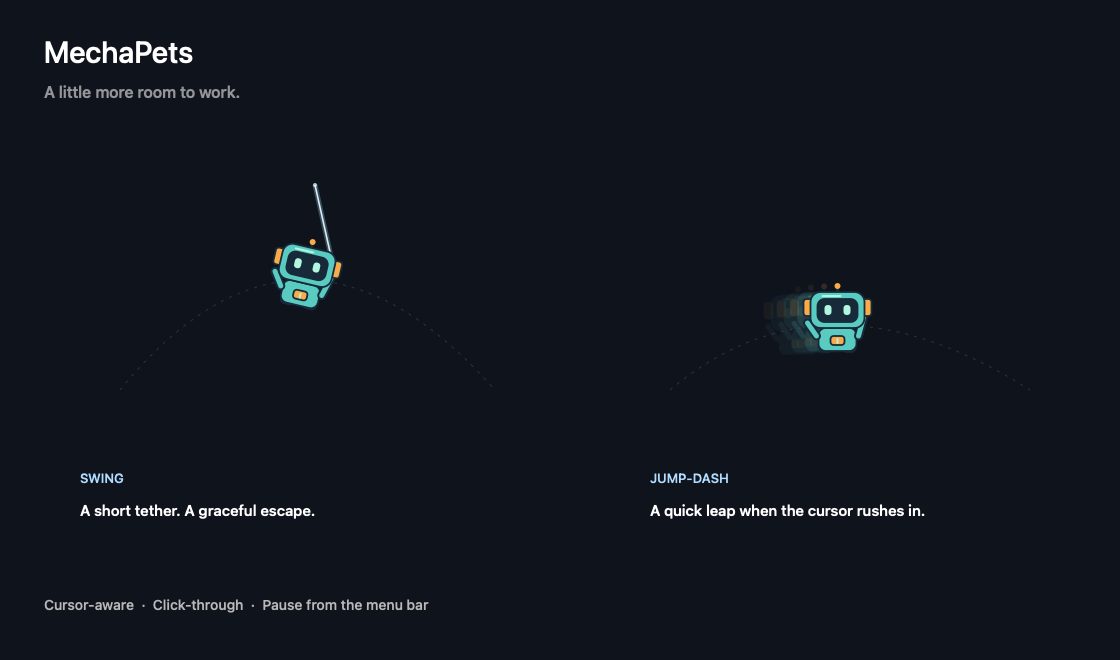
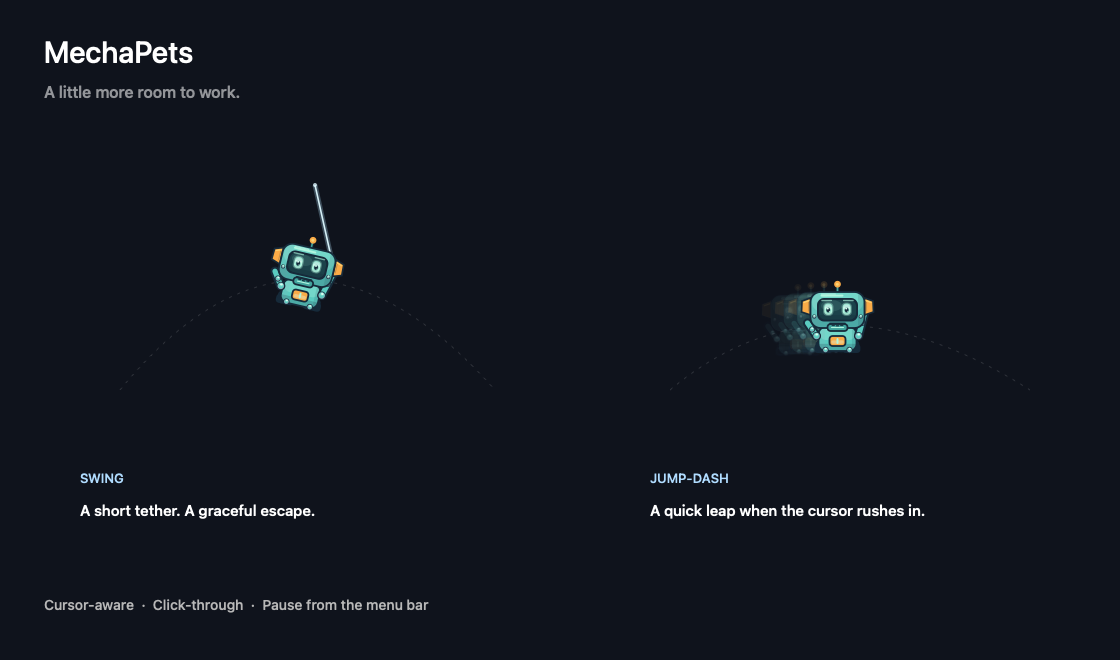
Refine robot artwork and forge spark trails

Changed region(s): [[0.6875, 0.4242, 0.7812, 0.5455], [0.25, 0.3636, 0.3125, 0.4848]]

diff --git a/Sources/Robot.swift b/Sources/Robot.swift
@@ -8,8 +8,12 @@ extension PetView {
         NSGraphicsContext.current?.cgContext.setAlpha(alpha)
         let ink=NSColor(calibratedRed:0.06,green:0.14,blue:0.20,alpha:1)
         let shell=NSColor(calibratedRed:0.29,green:0.78,blue:0.73,alpha:1)
+        let plate=NSColor(calibratedRed:0.20,green:0.62,blue:0.59,alpha:1)
         let highlight=NSColor(calibratedRed:0.66,green:0.96,blue:0.86,alpha:1)
+        let shine=NSColor(calibratedRed:0.84,green:0.99,blue:0.94,alpha:1)
         let orange=NSColor(calibratedRed:1,green:0.65,blue:0.25,alpha:1)
+        let amber=NSColor(calibratedRed:1,green:0.82,blue:0.42,alpha:1)
+        let steel=NSColor(calibratedRed:0.50,green:0.66,blue:0.70,alpha:1)
         let airborne=row==4 && (frame==1 || frame==2)
         let forging = model.flight == nil && (workloadCount ?? 0) > 0
         let forge = ForgeStyle(count: workloadCount ?? 0)
@@ -19,59 +23,210 @@ extension PetView {
             let p=NSBezierPath(roundedRect:NSRect(x:x,y:y+bob,width:w,height:h),xRadius:r,yRadius:r)
             color.setFill();p.fill();ink.setStroke();p.lineWidth=1.8;p.stroke()
         }
+        func plated(_ x:CGFloat,_ y:CGFloat,_ w:CGFloat,_ h:CGFloat,_ r:CGFloat,_ color:NSColor) {
+            let rect=NSRect(x:x,y:y+bob,width:w,height:h)
+            let p=NSBezierPath(roundedRect:rect,xRadius:r,yRadius:r)
+            color.setFill();p.fill()
+            NSGraphicsContext.saveGraphicsState()
+            p.addClip()
+            highlight.withAlphaComponent(0.28).setFill()
+            NSBezierPath(roundedRect:NSRect(x:x+1.6,y:y+bob+h*0.46,width:w-3.2,height:h*0.52),xRadius:max(1,r-1.2),yRadius:max(1,r-1.2)).fill()
+            steel.withAlphaComponent(0.16).setFill()
+            NSBezierPath(rect:NSRect(x:x,y:y+bob,width:max(2.4,w*0.17),height:h)).fill()
+            ink.withAlphaComponent(0.20).setFill()
+            NSBezierPath(rect:NSRect(x:x,y:y+bob,width:w,height:h*0.30)).fill()
+            ink.withAlphaComponent(0.12).setFill()
+            NSBezierPath(rect:NSRect(x:x+w-max(2.0,w*0.12),y:y+bob,width:max(2.0,w*0.12),height:h)).fill()
+            shine.withAlphaComponent(0.58).setStroke()
+            let rim=NSBezierPath();rim.move(to:NSPoint(x:x+r+1,y:y+bob+h-2.1));rim.line(to:NSPoint(x:x+w*0.46,y:y+bob+h-2.1))
+            rim.lineWidth=1.2;rim.lineCapStyle = .round;rim.stroke()
+            shine.withAlphaComponent(0.30).setStroke()
+            let spec=NSBezierPath();spec.move(to:NSPoint(x:x+r+2.2,y:y+bob+h-4.0));spec.line(to:NSPoint(x:x+w*0.30,y:y+bob+h-4.0))
+            spec.lineWidth=0.8;spec.lineCapStyle = .round;spec.stroke()
+            NSGraphicsContext.restoreGraphicsState()
+            ink.setStroke();p.lineWidth=1.8;p.stroke()
+        }
         func line(_ from:NSPoint,_ to:NSPoint,_ color:NSColor,_ width:CGFloat) {
             let p=NSBezierPath();p.move(to:from);p.line(to:to);p.lineCapStyle = .round;p.lineWidth=width;color.setStroke();p.stroke()
         }
-        // Short, articulated feet: they tuck up during jumps.
+        func joint(_ x:CGFloat,_ y:CGFloat,_ r:CGFloat, bobbing:Bool=false) {
+            let dy=bobbing ? bob : 0
+            ink.setFill();NSBezierPath(ovalIn:NSRect(x:x-r,y:y-r+dy,width:r*2,height:r*2)).fill()
+            steel.setFill();NSBezierPath(ovalIn:NSRect(x:x-r+0.8,y:y-r+0.85+dy,width:r*2-1.6,height:r*2-1.6)).fill()
+            shell.setFill();NSBezierPath(ovalIn:NSRect(x:x-r+1.45,y:y-r+1.65+dy,width:r*2-2.9,height:r*2-2.7)).fill()
+            highlight.withAlphaComponent(0.32).setFill()
+            NSBezierPath(ovalIn:NSRect(x:x-r*0.52,y:y-r*0.12+dy,width:r*1.02,height:r*0.68)).fill()
+            shine.setFill();NSBezierPath(ovalIn:NSRect(x:x-r*0.28,y:y+r*0.12+dy,width:r*0.7,height:r*0.55)).fill()
+        }
+        func fin(baseX:CGFloat, pointing:CGFloat) {
+            let p=NSBezierPath()
+            p.move(to:NSPoint(x:baseX,y:10+bob))
+            p.line(to:NSPoint(x:baseX+pointing*9,y:13+bob))
+            p.line(to:NSPoint(x:baseX+pointing*8.5,y:24+bob))
+            p.line(to:NSPoint(x:baseX,y:27+bob))
+            p.close()
+            orange.setFill();p.fill();ink.setStroke();p.lineWidth=1.7;p.stroke()
+            ink.withAlphaComponent(0.22).setStroke()
+            let seam=NSBezierPath();seam.move(to:NSPoint(x:baseX+pointing*2.1,y:13.5+bob));seam.line(to:NSPoint(x:baseX+pointing*2.0,y:23.2+bob))
+            seam.lineWidth=1.0;seam.lineCapStyle = .round;seam.stroke()
+            let rim=NSBezierPath();rim.move(to:NSPoint(x:baseX+pointing*1.2,y:24.5+bob));rim.line(to:NSPoint(x:baseX+pointing*6.5,y:22.5+bob))
+            rim.lineCapStyle = .round;rim.lineWidth=1.15;amber.setStroke();rim.stroke()
+        }
+        // Short, articulated boots: they tuck up during jumps.
         let footY:CGFloat=airborne ? -27:-36
-        box(-18,footY,13,10,4,ink);box(5,footY,13,10,4,ink)
-        box(-19,-26,38,23,7,shell)
-        box(-7,-20,14,9,3,orange)
-        line(NSPoint(x:0,y:-18),NSPoint(x:0,y:-14),highlight,2)
+        box(-21,footY,16,11,3.4,ink);box(-22,footY,7,7,2.2,ink)
+        box(5,footY,16,11,3.4,ink);box(15,footY,7,7,2.2,ink)
+        steel.withAlphaComponent(0.42).setFill()
+        NSBezierPath(roundedRect:NSRect(x:-19.6,y:footY+5.6+bob,width:11.2,height:3.2),xRadius:1.3,yRadius:1.3).fill()
+        NSBezierPath(roundedRect:NSRect(x:6.4,y:footY+5.6+bob,width:11.2,height:3.2),xRadius:1.3,yRadius:1.3).fill()
+        plated(-19,-26,38,24,7,shell)
+        joint(-12,-25,3.2,bobbing:true);joint(12,-25,3.2,bobbing:true)
+        box(-8,-21,16,10,3,orange)
+        shine.withAlphaComponent(0.34).setFill()
+        NSBezierPath(roundedRect:NSRect(x:-6.2,y:-18.8+bob,width:12.4,height:3.4),xRadius:1.4,yRadius:1.4).fill()
+        if forging {
+            let pulse=CGFloat(1 - lift) * (0.18 + 0.10 * CGFloat(forge.level))
+            amber.withAlphaComponent(0.28+pulse).setFill()
+            NSBezierPath(roundedRect:NSRect(x:-5,y:-18+bob,width:10,height:5),xRadius:2,yRadius:2).fill()
+        }
+        line(NSPoint(x:0,y:-18+bob),NSPoint(x:0,y:-14+bob),highlight,2)
+        func arm(_ from:NSPoint,_ to:NSPoint) {
+            line(from,to,ink,9.2);line(from,to,shell,5.2)
+            joint(from.x,from.y,4.1)
+            joint((from.x+to.x)*0.5,(from.y+to.y)*0.5,3.1)
+        }
         // Arms can reach toward the tether without changing the body silhouette.
+        var hammerHead=NSPoint.zero
+        var hammerHand=NSPoint.zero
+        var hammerTilt:CGFloat=0
         if airborne {
-            line(NSPoint(x:-21,y:-11),NSPoint(x:-30,y:2),ink,9)
-            line(NSPoint(x:-21,y:-11),NSPoint(x:-30,y:2),shell,5)
-            line(NSPoint(x:21,y:-11),NSPoint(x:28,y:15),ink,9)
-            line(NSPoint(x:21,y:-11),NSPoint(x:28,y:15),shell,5)
+            arm(NSPoint(x:-21,y:-11),NSPoint(x:-30,y:2))
+            arm(NSPoint(x:21,y:-11),NSPoint(x:28,y:15))
         } else if forging {
             // One hand steadies the robot while the other works a small steel hammer.
-            line(NSPoint(x:-21,y:-12),NSPoint(x:-24,y:-24),ink,9)
-            line(NSPoint(x:-21,y:-12),NSPoint(x:-24,y:-24),shell,5)
-            let hand = NSPoint(x:36-7*lift, y:-31+33*lift)
-            line(NSPoint(x:21,y:-12),hand,ink,9)
-            line(NSPoint(x:21,y:-12),hand,shell,5)
-            let head = NSPoint(x:hand.x+4,y:hand.y+13)
-            line(NSPoint(x:hand.x-2,y:hand.y-3),head,ink,5)
-            line(NSPoint(x:hand.x-2,y:hand.y-3),head,orange,2.5)
-            // Draw the hammer without body bob so impact meets the anvil precisely.
-            let hammer = NSBezierPath(roundedRect:NSRect(x:head.x-8,y:head.y-4,width:16,height:8),xRadius:2,yRadius:2)
-            NSColor(calibratedRed:0.52,green:0.66,blue:0.70,alpha:1).setFill();hammer.fill()
-            ink.setStroke();hammer.lineWidth=1.7;hammer.stroke()
-            line(NSPoint(x:head.x-5,y:head.y+2),NSPoint(x:head.x+4,y:head.y+2),highlight,1.4)
+            arm(NSPoint(x:-21,y:-12),NSPoint(x:-24,y:-24))
+            joint(-24,-24,3.4)
+            let t=CGFloat(lift)
+            // Hammer head sits on the anvil face at rest; raise tilts it back. Drawn without bob.
+            hammerHead=NSPoint(x:41-9*t,y:-20.2+37*t)
+            hammerHand=NSPoint(x:29.5-2*t,y:-23.5+29*t)
+            hammerTilt = -0.72 * t
+            arm(NSPoint(x:21,y:-12),hammerHand)
         } else {
-            line(NSPoint(x:-21,y:-12),NSPoint(x:-26,y:-24),ink,9)
-            line(NSPoint(x:-21,y:-12),NSPoint(x:-26,y:-24),shell,5)
-            line(NSPoint(x:21,y:-12),NSPoint(x:26,y:-24),ink,9)
-            line(NSPoint(x:21,y:-12),NSPoint(x:26,y:-24),shell,5)
+            arm(NSPoint(x:-21,y:-12),NSPoint(x:-26,y:-24))
+            arm(NSPoint(x:21,y:-12),NSPoint(x:26,y:-24))
+            joint(-26,-24,3.2);joint(26,-24,3.2)
         }
-        // Angular receiver ears and an amber antenna distinguish the character.
-        box(-34,9,9,17,3,orange);box(25,9,9,17,3,orange)
-        line(NSPoint(x:0,y:30+bob),NSPoint(x:0,y:38+bob),ink,3)
-        orange.setFill();NSBezierPath(ovalIn:NSRect(x:-3,y:36+bob,width:6,height:6)).fill()
-        box(-27,-3,54,36,10,shell)
-        box(-20,3,40,23,7,ink)
+        // Angular receiver fins and an amber antenna distinguish the character.
+        fin(baseX:-27,pointing:-1);fin(baseX:27,pointing:1)
+        line(NSPoint(x:0,y:31+bob),NSPoint(x:0,y:40+bob),ink,3.2)
+        line(NSPoint(x:0,y:31+bob),NSPoint(x:0,y:39+bob),plate,1.6)
+        orange.setFill();NSBezierPath(ovalIn:NSRect(x:-3.4,y:37.4+bob,width:6.8,height:6.8)).fill()
+        amber.setFill();NSBezierPath(ovalIn:NSRect(x:-1.8,y:39.2+bob,width:3.2,height:3.0)).fill()
+        plated(-27,-3,54,36,10,shell)
+        box(-10,-6,20,7,3,plate)
+        line(NSPoint(x:-6,y:-2.5+bob),NSPoint(x:6,y:-2.5+bob),highlight,1.1)
+        ink.setFill()
+        NSBezierPath(roundedRect:NSRect(x:-20.5,y:3.5+bob,width:41,height:23.5),xRadius:7,yRadius:7).fill()
+        let glass=NSBezierPath(roundedRect:NSRect(x:-18.5,y:5.5+bob,width:37,height:19.5),xRadius:6,yRadius:6)
+        NSColor(calibratedRed:0.07,green:0.23,blue:0.26,alpha:1).setFill()
+        glass.fill()
+        NSGraphicsContext.saveGraphicsState()
+        glass.addClip()
+        highlight.withAlphaComponent(0.11).setFill()
+        NSBezierPath(ovalIn:NSRect(x:-16.5,y:13.5+bob,width:21,height:11.5)).fill()
+        ink.withAlphaComponent(0.28).setFill()
+        NSBezierPath(rect:NSRect(x:-18.5,y:5.5+bob,width:37,height:4.6)).fill()
+        NSGraphicsContext.restoreGraphicsState()
+        func rivet(_ x:CGFloat,_ y:CGFloat) {
+            ink.setFill();NSBezierPath(ovalIn:NSRect(x:x-2.1,y:y-2.1+bob,width:4.2,height:4.2)).fill()
+            steel.setFill();NSBezierPath(ovalIn:NSRect(x:x-1.5,y:y-1.45+bob,width:3.0,height:3.0)).fill()
+            highlight.setFill();NSBezierPath(ovalIn:NSRect(x:x-0.9,y:y-0.2+bob,width:2.1,height:2.0)).fill()
+        }
+        rivet(-23.2,8.5);rivet(23.2,8.5)
         let blink=row==0 && frame==4
-        if blink {
-            line(NSPoint(x:-12,y:14+bob),NSPoint(x:-6,y:14+bob),highlight,3)
-            line(NSPoint(x:6,y:14+bob),NSPoint(x:12,y:14+bob),highlight,3)
-        } else {
-            highlight.setFill()
-            NSBezierPath(roundedRect:NSRect(x:-13,y:10+bob,width:7,height:10),xRadius:3,yRadius:3).fill()
-            NSBezierPath(roundedRect:NSRect(x:6,y:10+bob,width:7,height:10),xRadius:3,yRadius:3).fill()
+        let lookX:CGFloat = forging ? 1.25 : (airborne ? 0 : 0)
+        let lookY:CGFloat = forging ? -0.85 : (airborne ? 0.45 : 0)
+        let squint:CGFloat = forging ? (0.18 + CGFloat(1 - lift) * (forge.level >= 3 ? 0.38 : 0.16)) : 0
+        func eye(_ x:CGFloat) {
+            let h=11.2 - squint*3.4
+            let oy:CGFloat=10.2 + squint*1.4
+            highlight.withAlphaComponent(0.35).setFill()
+            NSBezierPath(roundedRect:NSRect(x:x-1.2,y:oy-1.1+bob,width:10.4,height:h+2.2),xRadius:4.2,yRadius:4.2).fill()
+            let lens=NSBezierPath(roundedRect:NSRect(x:x,y:oy+bob,width:8,height:h),xRadius:3.3,yRadius:3.3)
+            highlight.setFill();lens.fill()
+            NSGraphicsContext.saveGraphicsState()
+            lens.addClip()
+            shine.setFill()
+            NSBezierPath(roundedRect:NSRect(x:x+0.7,y:oy+h*0.42+bob,width:6.4,height:h*0.48),xRadius:2.4,yRadius:2.4).fill()
+            plate.withAlphaComponent(0.22+squint*0.28).setFill()
+            NSBezierPath(rect:NSRect(x:x,y:oy+h*0.66+bob,width:8,height:h*0.42)).fill()
+            ink.withAlphaComponent(0.12+squint*0.10).setFill()
+            NSBezierPath(rect:NSRect(x:x,y:oy+bob,width:8,height:h*0.20)).fill()
+            NSColor(calibratedRed:0.16,green:0.52,blue:0.50,alpha:0.55).setFill()
+            NSBezierPath(ovalIn:NSRect(x:x+1.55+lookX,y:oy+1.45+lookY+bob,width:4.9,height:5.7-squint*1.5)).fill()
+            ink.setFill()
+            NSBezierPath(ovalIn:NSRect(x:x+2.1+lookX,y:oy+2.0+lookY+bob,width:3.7,height:4.6-squint*1.6)).fill()
+            shine.setFill()
+            NSBezierPath(ovalIn:NSRect(x:x+2.5+lookX,y:oy+4.8+lookY+bob,width:2.05,height:2.15)).fill()
+            shine.withAlphaComponent(0.85).setFill()
+            NSBezierPath(ovalIn:NSRect(x:x+4.55+lookX,y:oy+2.4+lookY+bob,width:1.1,height:1.1)).fill()
+            NSGraphicsContext.restoreGraphicsState()
         }
+        if blink {
+            let lid=NSBezierPath()
+            lid.move(to:NSPoint(x:-13.4,y:13.7+bob))
+            lid.curve(to:NSPoint(x:-4.8,y:13.9+bob), controlPoint1:NSPoint(x:-11.0,y:15.5+bob), controlPoint2:NSPoint(x:-7.2,y:15.6+bob))
+            lid.lineWidth=2.8;lid.lineCapStyle = .round;highlight.setStroke();lid.stroke()
+            let lidR=NSBezierPath()
+            lidR.move(to:NSPoint(x:4.8,y:13.9+bob))
+            lidR.curve(to:NSPoint(x:13.4,y:13.7+bob), controlPoint1:NSPoint(x:7.2,y:15.6+bob), controlPoint2:NSPoint(x:11.0,y:15.5+bob))
+            lidR.lineWidth=2.8;lidR.lineCapStyle = .round;lidR.stroke()
+        } else {
+            eye(-13.2);eye(5.2)
+        }
+        let browDrop:CGFloat = forging ? (0.55 + squint*1.15) : (airborne ? -0.75 : 0)
+        line(NSPoint(x:-15.6,y:23.7+bob-browDrop),NSPoint(x:-6.1,y:24.3+bob-browDrop*0.3),highlight.withAlphaComponent(0.62),1.35)
+        line(NSPoint(x:6.1,y:24.3+bob-browDrop*0.3),NSPoint(x:15.6,y:23.7+bob-browDrop),highlight.withAlphaComponent(0.62),1.35)
         // A small brow glint keeps the metal readable on dark and light desktops.
-        line(NSPoint(x:-15,y:29+bob),NSPoint(x:3,y:29+bob),highlight,2)
+        line(NSPoint(x:-16,y:29.4+bob),NSPoint(x:5,y:29.4+bob),highlight,2)
+        let grin:CGFloat = forging ? 0.05 : (airborne ? 0.45 : 0.95)
+        line(NSPoint(x:-7.6,y:1.7+bob),NSPoint(x:7.6,y:1.7+bob),ink,1.45)
+        line(NSPoint(x:-5.4,y:0.15+bob-grin),NSPoint(x:-3.1,y:0.15+bob-grin),ink,1.15)
+        line(NSPoint(x:-1.15,y:-0.25+bob-grin*1.2),NSPoint(x:1.15,y:-0.25+bob-grin*1.2),ink,1.15)
+        line(NSPoint(x:3.1,y:0.15+bob-grin),NSPoint(x:5.4,y:0.15+bob-grin),ink,1.15)
+        if forging {
+            // Draw the hammer without body bob so impact meets the anvil precisely.
+            joint(hammerHand.x,hammerHand.y,3.5)
+            line(hammerHand,hammerHead,ink,5)
+            line(hammerHand,hammerHead,orange,2.6)
+            NSGraphicsContext.saveGraphicsState()
+            let xf=NSAffineTransform()
+            xf.translateX(by:hammerHead.x,yBy:hammerHead.y)
+            xf.rotate(byRadians:hammerTilt)
+            xf.concat()
+            let head=NSBezierPath(roundedRect:NSRect(x:-9.2,y:-4.1,width:18.4,height:8.2),xRadius:2.1,yRadius:2.1)
+            steel.setFill();head.fill()
+            NSGraphicsContext.saveGraphicsState()
+            head.addClip()
+            ink.withAlphaComponent(0.16).setFill()
+            NSBezierPath(rect:NSRect(x:-9.2,y:-4.1,width:18.4,height:2.6)).fill()
+            highlight.withAlphaComponent(0.38).setFill()
+            NSBezierPath(roundedRect:NSRect(x:-7.4,y:-0.2,width:14.6,height:3.6),xRadius:1.4,yRadius:1.4).fill()
+            NSGraphicsContext.restoreGraphicsState()
+            ink.setStroke();head.lineWidth=1.65;head.stroke()
+            let peen=NSBezierPath(roundedRect:NSRect(x:6.4,y:-2.6,width:5.2,height:5.2),xRadius:1.3,yRadius:1.3)
+            NSColor(calibratedRed:0.62,green:0.76,blue:0.78,alpha:1).setFill();peen.fill();ink.setStroke();peen.lineWidth=1.3;peen.stroke()
+            shine.withAlphaComponent(0.5).setFill()
+            NSBezierPath(ovalIn:NSRect(x:7.4,y:-0.6,width:2.4,height:1.8)).fill()
+            line(NSPoint(x:-6.5,y:1.6),NSPoint(x:5.4,y:1.6),shine,1.25)
+            if lift < 0.22 {
+                let hot=CGFloat(1 - lift / 0.22)
+                NSColor(calibratedRed:1,green:0.62,blue:0.22,alpha:0.18+0.28*hot).setFill()
+                NSBezierPath(ovalIn:NSRect(x:-6,y:-3.2,width:12,height:6.4)).fill()
+            }
+            NSGraphicsContext.restoreGraphicsState()
+        }
         NSGraphicsContext.restoreGraphicsState()
     }
 }

diff --git a/Sources/Forge.swift b/Sources/Forge.swift
@@ -59,23 +59,54 @@ extension PetView {
         NSBezierPath(ovalIn: NSRect(x: 29, y: -33, width: 25, height: 22)).fill()
         let hot = NSColor(calibratedRed: 1, green: 0.51 + impact * 0.32, blue: 0.21 + impact * 0.25, alpha: 1)
         box(NSRect(x: 35, y: -25, width: 11, height: 4), radius: 1.5, color: hot)
+        if !reducedMotion && impact > 0 {
+            NSColor(calibratedRed: 1, green: 0.72, blue: 0.28, alpha: 0.16 + impact * 0.38).setFill()
+            NSBezierPath(ovalIn: NSRect(x: 35.5, y: -28.2, width: 10.5, height: 7.4)).fill()
+            NSColor(calibratedRed: 1, green: 0.92, blue: 0.62, alpha: 0.20 + impact * 0.45).setFill()
+            NSBezierPath(ovalIn: NSRect(x: 37.6, y: -26.4, width: 6.2, height: 3.8)).fill()
+        }
         // Deterministic sparks have no retained particle state or unbounded allocation.
         guard !reducedMotion && age < 0.25 else { return }
         let progress = age / 0.25
+        func sparkPoint(_ p: Double, x0: Double, y0: Double, vx: Double, vy: Double, grav: Double) -> NSPoint {
+            let t = max(0, min(1, p))
+            let x = min(53.5, max(-53.5, x0 + vx * t))
+            let y = min(53.5, max(-41.8, y0 + vy * t - 0.5 * grav * t * t))
+            return NSPoint(x: x, y: y)
+        }
         for i in 0..<style.sparkCount {
             let seed = Double((i * 37 + 11) % 101) / 100
-            let reach = (28 + seed * 48) * (0.55 + 0.15 * Double(style.level))
             let spread = Double((i * 61 + 29) % 101) / 100
-            let dx = -15 + spread * 27
-            let x = 40 + dx * progress
-            let y = -21 + reach * sin(progress * .pi * 0.76) - 5 * progress
-            let spark = NSBezierPath()
-            spark.move(to: NSPoint(x: x, y: y))
-            spark.line(to: NSPoint(x: x - dx * 0.04, y: y - 3.2))
-            spark.lineWidth = i % 3 == 0 ? 2 : 1.25
-            spark.lineCapStyle = .round
-            NSColor(calibratedRed: 1, green: 0.58 + seed * 0.36, blue: 0.20 + seed * 0.39, alpha: (1 - progress) * 0.95).setStroke()
-            spark.stroke()
+            let hang = Double((i * 89 + 17) % 101) / 100
+            let life = 0.72 + seed * 0.28
+            let fade = max(0, 1 - progress / life)
+            guard fade > 0.02 else { continue }
+            let p = min(1, progress / life)
+            let x0 = 40.0 + (spread - 0.5) * 2.4
+            let y0 = -21.2
+            let vx = -13.5 + spread * 23.0 + (seed - 0.5) * 5.0
+            let levelScale = 0.55 + 0.15 * Double(style.level)
+            let vy = (34 + seed * 40 + hang * 12) * levelScale
+            let grav = 50 + hang * 28
+            let head = sparkPoint(p, x0: x0, y0: y0, vx: vx, vy: vy, grav: grav)
+            let thick: CGFloat = i % 3 == 0 ? 2.05 : 1.25
+            for k in 0..<3 {
+                let p0 = p - Double(k) * 0.085
+                let p1 = p - Double(k + 1) * 0.085
+                guard p0 > 0 else { continue }
+                let a = sparkPoint(p0, x0: x0, y0: y0, vx: vx, vy: vy, grav: grav)
+                let b = sparkPoint(max(0, p1), x0: x0, y0: y0, vx: vx, vy: vy, grav: grav)
+                let ember = NSBezierPath()
+                ember.move(to: a)
+                ember.line(to: b)
+                ember.lineWidth = thick * (1 - CGFloat(k) * 0.28)
+                ember.lineCapStyle = .round
+                let trail = fade * (0.92 - Double(k) * 0.28)
+                NSColor(calibratedRed: 1, green: 0.48 + seed * 0.40 - Double(k) * 0.10, blue: 0.16 + seed * 0.28, alpha: trail).setStroke()
+                ember.stroke()
+            }
+            NSColor(calibratedRed: 1, green: 0.78 + seed * 0.18, blue: 0.42 + seed * 0.28, alpha: fade * 0.95).setFill()
+            NSBezierPath(ovalIn: NSRect(x: head.x - 1.15, y: head.y - 1.05, width: 2.3, height: 2.1)).fill()
         }
     }
 }
